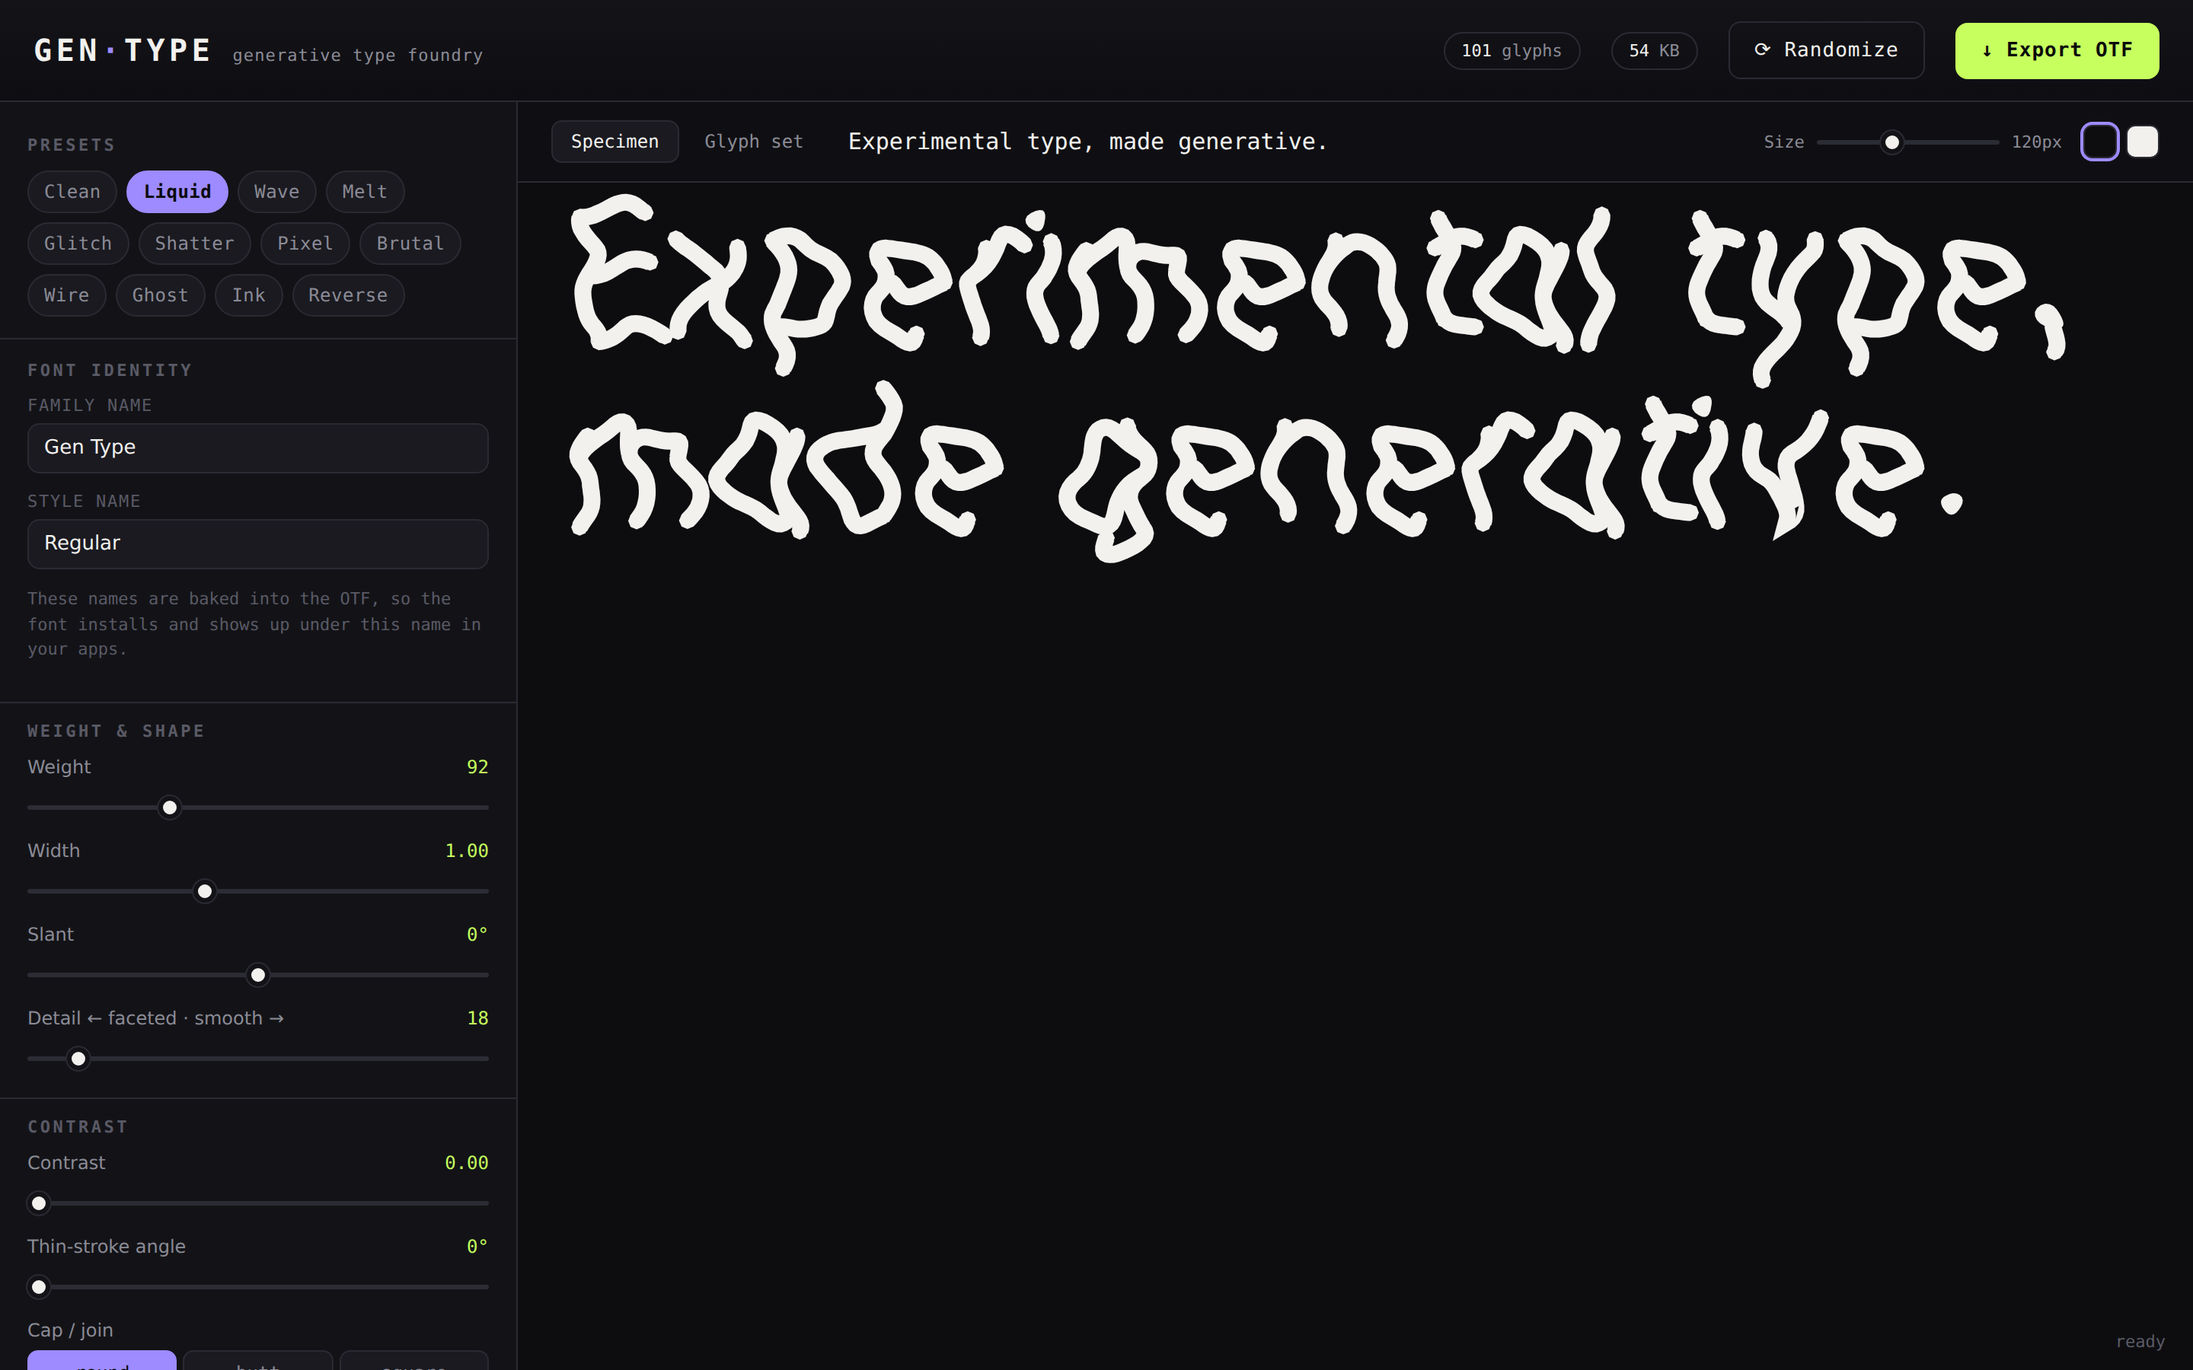
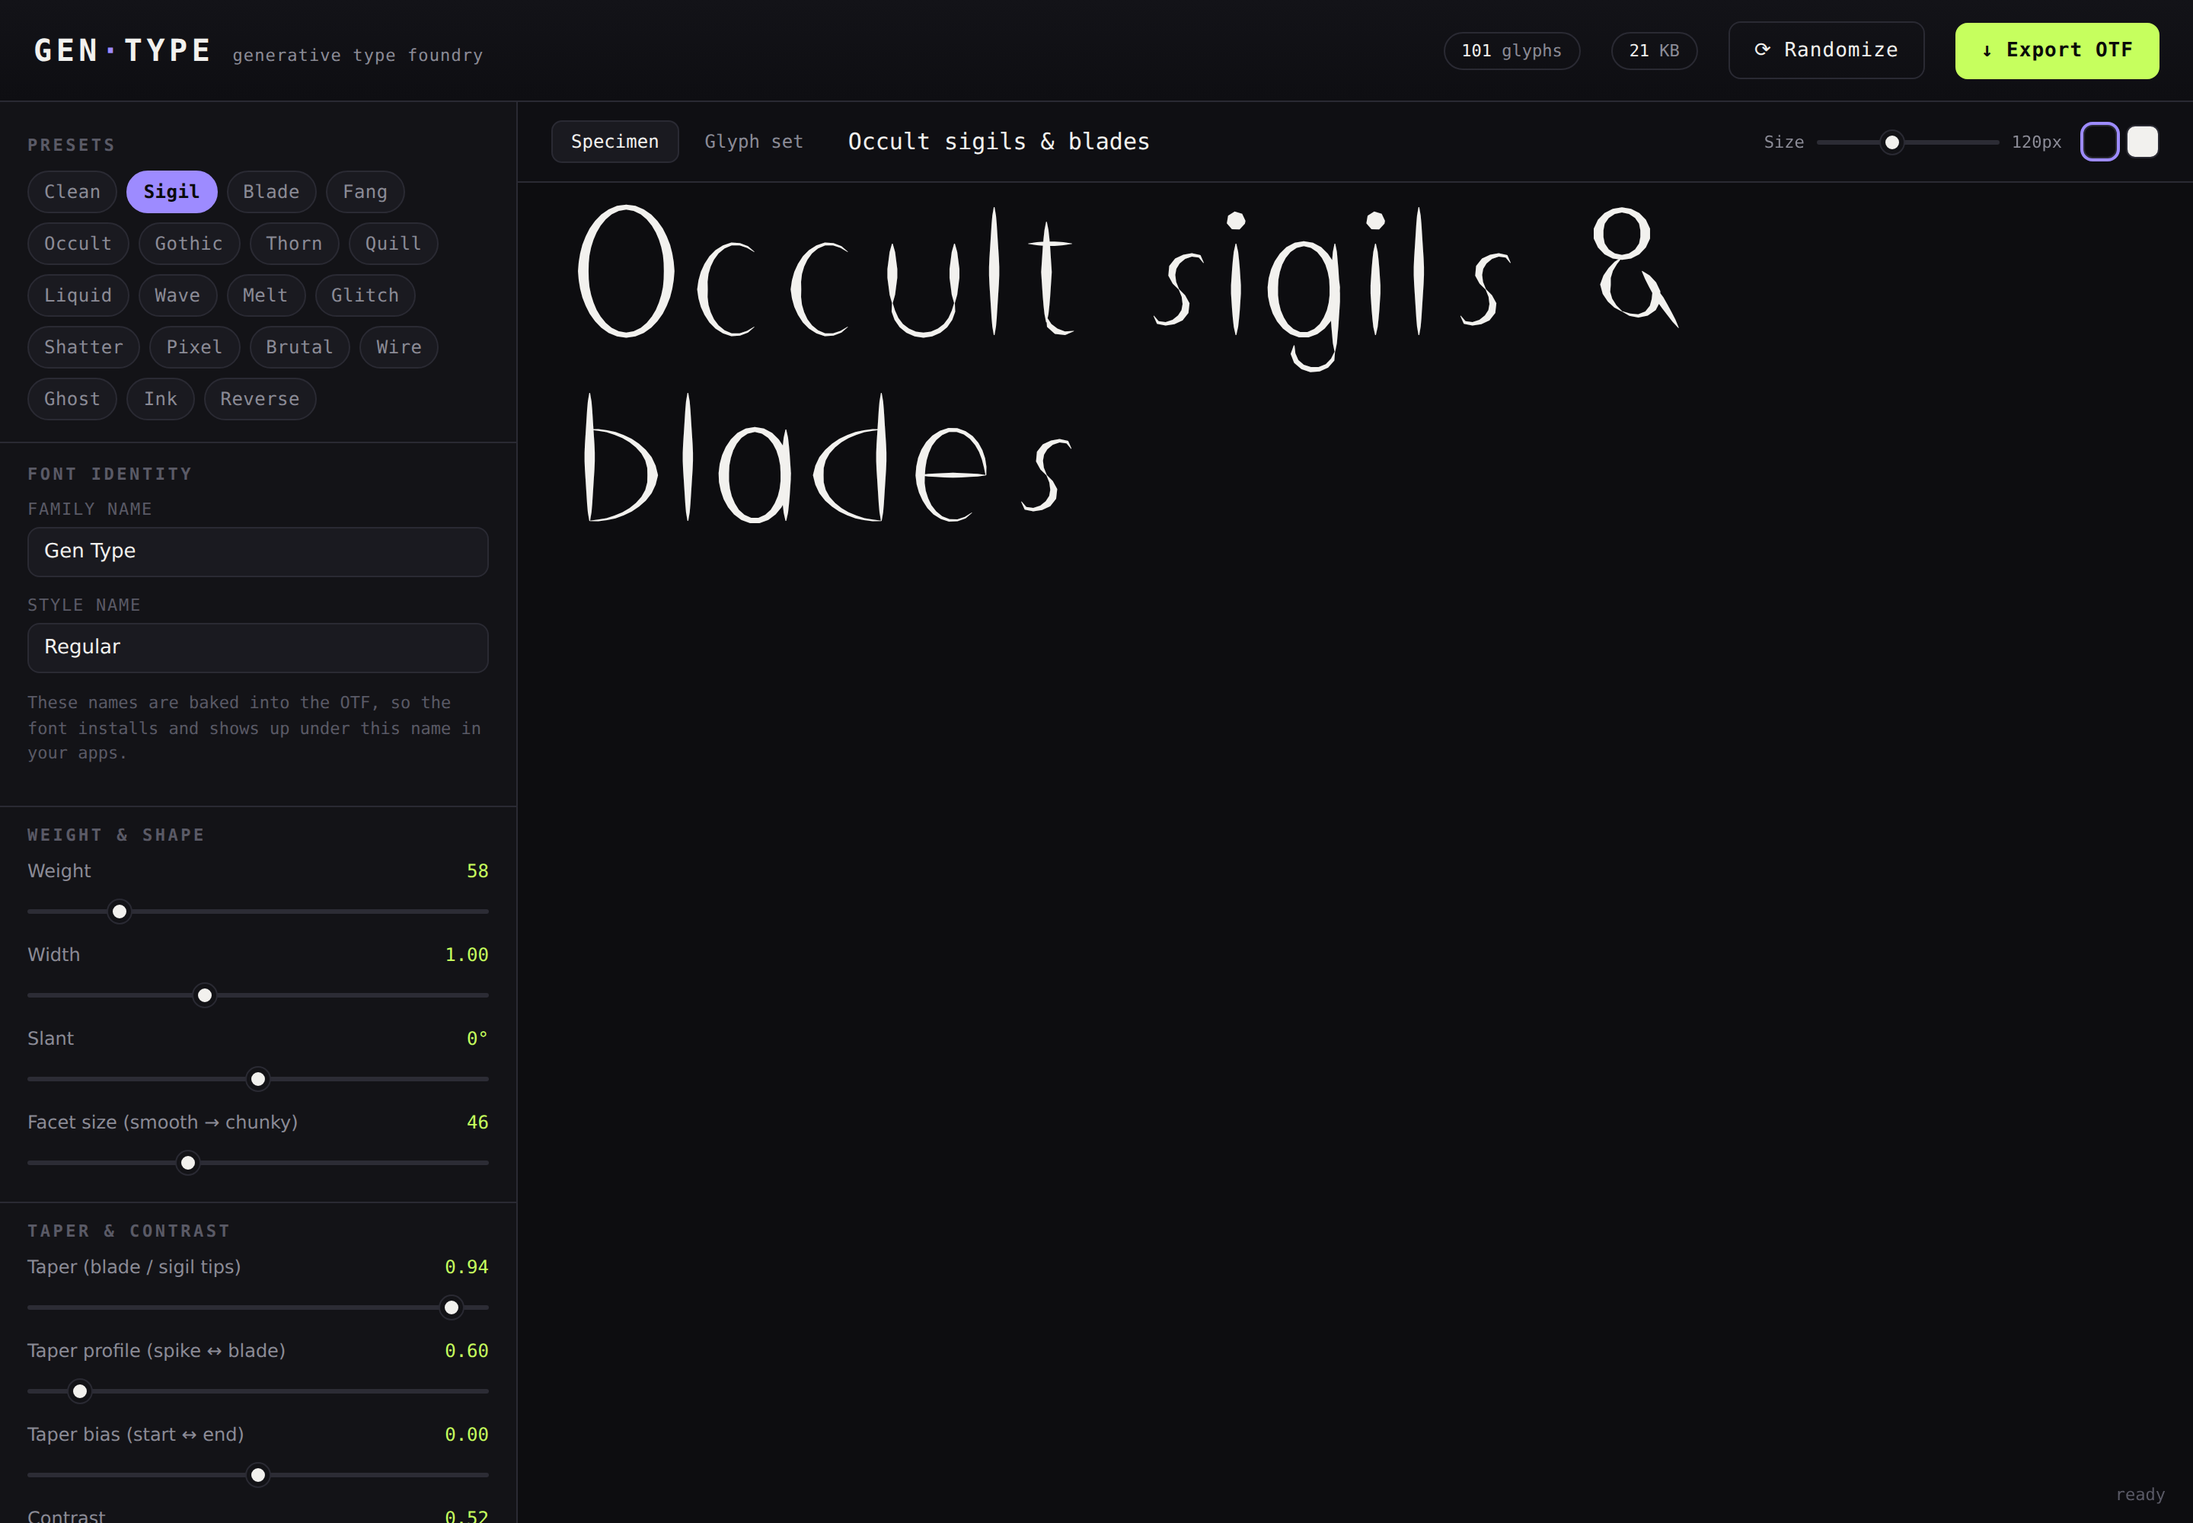
Add stroke tapering and occult/sigil presets
Adds the ability to taper stroke edges to sharp points — the blade / sigil
terminals of experimental display faces — plus presets in that direction.

Engine
- stroke.js now computes a per-vertex half width so strokes can taper toward
  their open ends, combining with broad-nib contrast. Controls:
  - taper (0–1): amount of thinning toward stroke ends
  - taperSharp: profile from needle spikes to long blades
  - taperBias (-1..1): which end tapers (calligraphic entry/exit strokes)
  Tapered ends converge to a point; round caps are only added to ends that
  stay wide. Closed rings are unaffected.

Presets
- 7 occult/display presets: Sigil, Blade, Fang, Occult, Gothic, Thorn, Quill.
- Randomize now explores tapered looks too.

UI copy + README updated; every preset still round-trips through the OTF
parser (npm run test:font).

Claude-Session: https://claude.ai/code/session_01RBM9tX26CJCXpcoRMEJQ3U

diff --git a/src/engine/stroke.js b/src/engine/stroke.js
@@ -1,10 +1,11 @@
 // stroke.js
-// Turn a monoline centerline into filled outline contour(s).
+// Convert a monoline centerline into filled outline contour(s), with per-vertex
+// width so strokes can TAPER to sharp points (blade / sigil terminals) and carry
+// broad-nib CONTRAST.
 //
-// Open strokes become a single clean offset outline (mitered joins, capped
+// Open strokes become a single offset outline (mitred joins, tapered/capped
 // ends). Closed strokes (rings like O/o/0/8) become an outer contour plus a
-// REVERSED inner contour, so the counter stays hollow under the nonzero fill
-// rule. Everything else in a glyph is wound the same way and simply unions.
+// REVERSED inner contour so the counter stays hollow under the nonzero fill rule.
 
 import { disk } from './glyphs.js';
 import { signedArea, orient } from './geometry.js';
@@ -20,12 +21,21 @@ function dedupe(points) {
 }
 
 export function strokeCenterline(points0, weight, opt = {}) {
-  const { contrast = 0, contrastAngle = 0, cap = 'round', capSteps = 10, miterLimit = 2.6 } = opt;
+  const {
+    contrast = 0,
+    contrastAngle = 0,
+    cap = 'round',
+    capSteps = 10,
+    miterLimit = 2.8,
+    taper = 0,
+    taperSharp = 1.2,
+    taperBias = 0,
+  } = opt;
   const out = [];
-  let points = dedupe(points0);
+  const points = dedupe(points0);
   if (points.length === 0) return out;
   if (points.length === 1) {
-    out.push(disk(points[0][0], points[0][1], weight / 2, capSteps));
+    out.push(disk(points[0][0], points[0][1], Math.max(weight / 2, 0.5), capSteps));
     return out;
   }
 
@@ -34,10 +44,10 @@ export function strokeCenterline(points0, weight, opt = {}) {
     Math.abs(points[0][0] - points[points.length - 1][0]) < 1e-6 &&
     Math.abs(points[0][1] - points[points.length - 1][1]) < 1e-6;
 
-  const P = closed ? points.slice(0, -1) : points; // drop duplicate seam point
+  const P = closed ? points.slice(0, -1) : points;
   const N = P.length;
   if (N < 2) {
-    out.push(disk(P[0][0], P[0][1], weight / 2, capSteps));
+    out.push(disk(P[0][0], P[0][1], Math.max(weight / 2, 0.5), capSteps));
     return out;
   }
 
@@ -45,7 +55,8 @@ export function strokeCenterline(points0, weight, opt = {}) {
   const segCount = closed ? N : N - 1;
   const dir = [];
   const nrm = [];
-  const segHW = [];
+  const segLen = [];
+  let total = 0;
   for (let i = 0; i < segCount; i++) {
     const a = P[i];
     const b = P[(i + 1) % N];
@@ -54,33 +65,61 @@ export function strokeCenterline(points0, weight, opt = {}) {
     const len = Math.hypot(dx, dy) || 1;
     dir.push([dx / len, dy / len]);
     nrm.push([-dy / len, dx / len]);
-    const f = 1 - contrast * Math.abs(Math.cos(Math.atan2(dy, dx) - thinDir));
-    segHW.push(Math.max((weight * Math.max(f, 0.1)) / 2, 0.5));
+    segLen.push(len);
+    total += len;
   }
 
-  // Square caps: push the open endpoints outward by their half weight.
+  // cumulative length at each vertex (open strokes) → normalised position for taper
+  const cum = [0];
+  for (let i = 1; i < N; i++) cum[i] = cum[i - 1] + segLen[i - 1];
+
+  // Broad-nib contrast factor from the vertex's tangent direction.
+  const contrastAt = (i) => {
+    let a;
+    let b;
+    if (!closed && i === 0) { a = 0; b = 0; }
+    else if (!closed && i === N - 1) { a = segCount - 1; b = segCount - 1; }
+    else { a = (i - 1 + segCount) % segCount; b = i % segCount; }
+    const ang = Math.atan2(dir[a][1] + dir[b][1], dir[a][0] + dir[b][0]);
+    return Math.max(1 - contrast * Math.abs(Math.cos(ang - thinDir)), 0.08);
+  };
+
+  // Taper: thin toward the open ends. `taperSharp` low → needle spikes, high →
+  // long blades. `taperBias` biases which end tapers: 0 both (leaf/blade),
+  // +1 only the end, -1 only the start (calligraphic entry/exit strokes).
+  const startAmt = taperBias <= 0 ? 1 : 1 - taperBias;
+  const endAmt = taperBias >= 0 ? 1 : 1 + taperBias;
+  const taperAt = (i) => {
+    if (closed || taper <= 0 || total < 1e-6) return 1;
+    const t = cum[i] / total;
+    const ss = Math.pow(Math.min(1, t / 0.5), taperSharp); // 0 at start → 1 by middle
+    const se = Math.pow(Math.min(1, (1 - t) / 0.5), taperSharp); // 0 at end → 1 by middle
+    const reduce = startAmt * (1 - ss) + endAmt * (1 - se);
+    return Math.max(0.02, 1 - taper * reduce);
+  };
+
+  // Half width at each vertex.
+  const vHW = [];
+  for (let i = 0; i < N; i++) vHW.push(Math.max((weight * contrastAt(i) * taperAt(i)) / 2, 0.3));
+
+  // Square caps: push open endpoints outward by their half width.
   if (cap === 'square' && !closed) {
-    P[0] = [P[0][0] - dir[0][0] * segHW[0], P[0][1] - dir[0][1] * segHW[0]];
+    P[0] = [P[0][0] - dir[0][0] * vHW[0], P[0][1] - dir[0][1] * vHW[0]];
     const e = segCount - 1;
-    P[N - 1] = [P[N - 1][0] + dir[e][0] * segHW[e], P[N - 1][1] + dir[e][1] * segHW[e]];
+    P[N - 1] = [P[N - 1][0] + dir[e][0] * vHW[N - 1], P[N - 1][1] + dir[e][1] * vHW[N - 1]];
   }
 
-  // Offset vector at each vertex (miter, clamped to avoid spikes).
+  // Offset vector at each vertex (mitred, clamped to avoid spikes).
   const offset = (i) => {
-    if (!closed && i === 0) return [nrm[0][0] * segHW[0], nrm[0][1] * segHW[0]];
-    if (!closed && i === N - 1) {
-      const e = segCount - 1;
-      return [nrm[e][0] * segHW[e], nrm[e][1] * segHW[e]];
-    }
-    const inS = (i - 1 + segCount) % segCount;
-    const outS = i % segCount;
-    const a = nrm[inS];
-    const b = nrm[outS];
-    const h = (segHW[inS] + segHW[outS]) / 2;
+    const h = vHW[i];
+    if (!closed && i === 0) return [nrm[0][0] * h, nrm[0][1] * h];
+    if (!closed && i === N - 1) { const e = segCount - 1; return [nrm[e][0] * h, nrm[e][1] * h]; }
+    const a = nrm[(i - 1 + segCount) % segCount];
+    const b = nrm[i % segCount];
     let mx = a[0] + b[0];
     let my = a[1] + b[1];
     const ml = Math.hypot(mx, my);
-    if (ml < 1e-4) return [a[0] * h, a[1] * h]; // near U-turn fallback
+    if (ml < 1e-4) return [a[0] * h, a[1] * h];
     const cosHalf = ml / 2;
     const scale = Math.min(1 / Math.max(cosHalf, 1e-3), miterLimit);
     return [(mx / ml) * h * scale, (my / ml) * h * scale];
@@ -98,9 +137,7 @@ export function strokeCenterline(points0, weight, opt = {}) {
     const aL = signedArea(Lp);
     const aR = signedArea(Rp);
     if (aL * aR <= 0) {
-      // Stroke thicker than the ring radius — counter has closed up, fill solid.
-      const outer = Math.abs(aL) >= Math.abs(aR) ? Lp : Rp;
-      out.push(orient(outer, true));
+      out.push(orient(Math.abs(aL) >= Math.abs(aR) ? Lp : Rp, true)); // counter closed up → solid
     } else {
       const outer = Math.abs(aL) >= Math.abs(aR) ? Lp : Rp;
       const inner = outer === Lp ? Rp : Lp;
@@ -110,12 +147,12 @@ export function strokeCenterline(points0, weight, opt = {}) {
     return out;
   }
 
-  // Open stroke: one contour running up the left side and back down the right.
-  const contour = Lp.concat(Rp.slice().reverse());
-  out.push(orient(contour, true));
+  // Open stroke: one contour up the left side and back down the right.
+  out.push(orient(Lp.concat(Rp.slice().reverse()), true));
+  // Round caps only on ends that are still wide (a tapered end is already a point).
   if (cap === 'round') {
-    out.push(disk(P[0][0], P[0][1], segHW[0], capSteps));
-    out.push(disk(P[N - 1][0], P[N - 1][1], segHW[segCount - 1], capSteps));
+    if (vHW[0] > weight * 0.16) out.push(disk(P[0][0], P[0][1], vHW[0], capSteps));
+    if (vHW[N - 1] > weight * 0.16) out.push(disk(P[N - 1][0], P[N - 1][1], vHW[N - 1], capSteps));
   }
   return out;
 }

diff --git a/src/engine/presets.js b/src/engine/presets.js
@@ -7,6 +7,9 @@ export const DEFAULTS = {
   width: 1,
   slant: 0,
   detail: 30,
+  taper: 0,
+  taperSharp: 1.2,
+  taperBias: 0,
   contrast: 0,
   contrastAngle: 0,
   cap: 'round',
@@ -37,8 +40,11 @@ export const SCHEMA = [
     ],
   },
   {
-    group: 'Contrast',
+    group: 'Taper & contrast',
     controls: [
+      { key: 'taper', label: 'Taper (blade / sigil tips)', min: 0, max: 1, step: 0.02 },
+      { key: 'taperSharp', label: 'Taper profile (spike ↔ blade)', min: 0.3, max: 3.5, step: 0.1 },
+      { key: 'taperBias', label: 'Taper bias (start ↔ end)', min: -1, max: 1, step: 0.05 },
       { key: 'contrast', label: 'Contrast', min: 0, max: 0.92, step: 0.02 },
       { key: 'contrastAngle', label: 'Thin-stroke angle', min: 0, max: 90, step: 5, unit: '°' },
       { key: 'cap', label: 'Cap / join', kind: 'select', options: ['round', 'butt', 'square'] },
@@ -74,6 +80,13 @@ export const SCHEMA = [
 
 export const PRESETS = {
   Clean: {},
+  Sigil: { weight: 58, taper: 0.94, taperSharp: 0.6, contrast: 0.52, cap: 'butt', detail: 46 },
+  Blade: { weight: 84, taper: 0.82, taperSharp: 2.4, contrast: 0.72, cap: 'butt', detail: 28 },
+  Fang: { weight: 104, taper: 1, taperSharp: 0.5, contrast: 0.44, cap: 'butt', detail: 64, slant: 7 },
+  Occult: { weight: 52, taper: 0.88, taperSharp: 0.7, contrast: 0.5, jitterAmp: 9, rotateJitter: 5, detail: 40, cap: 'butt' },
+  Gothic: { weight: 158, taper: 0.5, taperSharp: 2, contrast: 0.8, width: 0.8, cap: 'butt', detail: 40 },
+  Thorn: { weight: 40, taper: 0.96, taperSharp: 0.45, contrast: 0.35, waveAmp: 14, waveFreq: 0.02, detail: 34, cap: 'butt' },
+  Quill: { weight: 88, taper: 0.72, taperSharp: 1.4, taperBias: 0.6, contrast: 0.6, slant: 9, cap: 'butt', detail: 26 },
   Liquid: { weight: 92, waveAmp: 46, waveFreq: 0.014, waveAxis: 'both', noiseAmp: 30, noiseScale: 0.006, detail: 18 },
   Wave: { weight: 54, waveAmp: 74, waveFreq: 0.02, waveAxis: 'x', detail: 16 },
   Melt: { weight: 84, waveAmp: 32, waveAxis: 'y', waveFreq: 0.02, noiseAmp: 44, noiseScale: 0.012, detail: 16 },

diff --git a/src/main.js b/src/main.js
@@ -176,13 +176,15 @@ els.random.addEventListener('click', () => {
   p.width = +rnd(0.7, 1.5).toFixed(2);
   p.slant = Math.round(rnd(-14, 14));
   p.detail = Math.round(rnd(12, 90));
-  if (Math.random() < 0.5) { p.waveAmp = Math.round(rnd(20, 90)); p.waveFreq = +rnd(0.008, 0.025).toFixed(3); p.waveAxis = ['x', 'y', 'both'][Math.floor(Math.random() * 3)]; }
-  if (Math.random() < 0.5) { p.noiseAmp = Math.round(rnd(15, 70)); p.noiseScale = +rnd(0.004, 0.014).toFixed(3); }
-  if (Math.random() < 0.4) p.jitterAmp = Math.round(rnd(10, 45));
-  if (Math.random() < 0.3) p.pixel = Math.round(rnd(20, 80));
-  if (Math.random() < 0.3) { p.echo = Math.floor(rnd(2, 5)); p.echoX = Math.round(rnd(-40, 40)); p.echoY = Math.round(rnd(-40, 40)); }
-  if (Math.random() < 0.25) p.contrast = +rnd(0.3, 0.8).toFixed(2);
   p.cap = ['round', 'butt', 'square'][Math.floor(Math.random() * 3)];
+  const tapered = Math.random() < 0.55;
+  if (tapered) { p.taper = +rnd(0.4, 1).toFixed(2); p.taperSharp = +rnd(0.4, 2.6).toFixed(1); p.taperBias = +rnd(-0.7, 0.7).toFixed(2); p.cap = 'butt'; }
+  if (Math.random() < 0.5) { p.contrast = +rnd(0.3, 0.8).toFixed(2); p.contrastAngle = [0, 0, 90][Math.floor(Math.random() * 3)]; }
+  if (Math.random() < 0.5) { p.waveAmp = Math.round(rnd(20, 90)); p.waveFreq = +rnd(0.008, 0.025).toFixed(3); p.waveAxis = ['x', 'y', 'both'][Math.floor(Math.random() * 3)]; }
+  if (Math.random() < 0.45) { p.noiseAmp = Math.round(rnd(15, 70)); p.noiseScale = +rnd(0.004, 0.014).toFixed(3); }
+  if (Math.random() < 0.4) p.jitterAmp = Math.round(rnd(10, 45));
+  if (!tapered && Math.random() < 0.3) p.pixel = Math.round(rnd(20, 80));
+  if (Math.random() < 0.3) { p.echo = Math.floor(rnd(2, 5)); p.echoX = Math.round(rnd(-40, 40)); p.echoY = Math.round(rnd(-40, 40)); }
   p.seed = Math.floor(Math.random() * 9999);
   state.params = p;
   syncControls(p);

diff --git a/src/engine/buildFont.js b/src/engine/buildFont.js
@@ -24,6 +24,9 @@ export function glyphContours(ch, p) {
     contrastAngle: p.contrastAngle,
     cap: p.cap,
     capSteps: p.detail < 26 ? 8 : 12,
+    taper: p.taper || 0,
+    taperSharp: p.taperSharp || 1.2,
+    taperBias: p.taperBias || 0,
   };
 
   let contours = [];

diff --git a/README.md b/README.md
@@ -18,12 +18,15 @@ faces of studios like [h-4.digital](https://h-4.digital/product-category/fonts/)
   symbols (101 glyphs), so the fonts are actually usable for real text.
 - **Live preview = the exported file.** The on-screen specimen is rendered with
   the exact `@font-face` you download — no surprises after installing.
-- **Parametric & experimental controls:** weight, width, slant, stroke
-  contrast (including reverse contrast), facet/smoothness, sine **waves**,
-  flowing **noise warp**, **jitter/roughen**, **pixelate**, per-glyph
-  **rotation**, and **echo/ghost** repeats — all seeded for reproducibility.
-- **12 presets** (Clean, Liquid, Wave, Melt, Glitch, Shatter, Pixel, Brutal,
-  Wire, Ghost, Ink, Reverse) plus a **Randomize** button.
+- **Parametric & experimental controls:** weight, width, slant,
+  **stroke taper** (blade / sigil tips, with spike↔blade profile and a
+  start↔end bias for calligraphic entry/exit strokes), stroke **contrast**
+  (including reverse contrast), facet/smoothness, sine **waves**, flowing
+  **noise warp**, **jitter/roughen**, **pixelate**, per-glyph **rotation**,
+  and **echo/ghost** repeats — all seeded for reproducibility.
+- **19 presets** — occult / display looks (Sigil, Blade, Fang, Occult, Gothic,
+  Thorn, Quill) and distortion looks (Liquid, Wave, Melt, Glitch, Shatter,
+  Pixel, Brutal, Wire, Ghost, Ink, Reverse) — plus a **Randomize** button.
 - **Custom naming** — the family & style names you type are baked into the OTF
   name table, so the font installs and appears under that name in your apps.
 - **One-click OTF export**, generated entirely in the browser (no server, no
@@ -60,7 +63,8 @@ to GitHub Pages, Netlify, Vercel, or any static host (asset paths are relative).
 src/engine/
   geometry.js   arcs, ellipses, béziers, arc-length resampling, winding helpers
   glyphs.js     every glyph as monoline centrelines (+ solid fills for dots)
-  stroke.js     centreline → filled outline (mitred joins, caps, contrast, rings)
+  stroke.js     centreline → filled outline (per-vertex width: taper, contrast,
+                mitred joins, caps, hollow rings)
   effects.js    glyph-local distortions (wave / noise / jitter / pixelate / …)
   presets.js    control schema + named looks
   buildFont.js  params → real opentype.js Font (preview and export)
